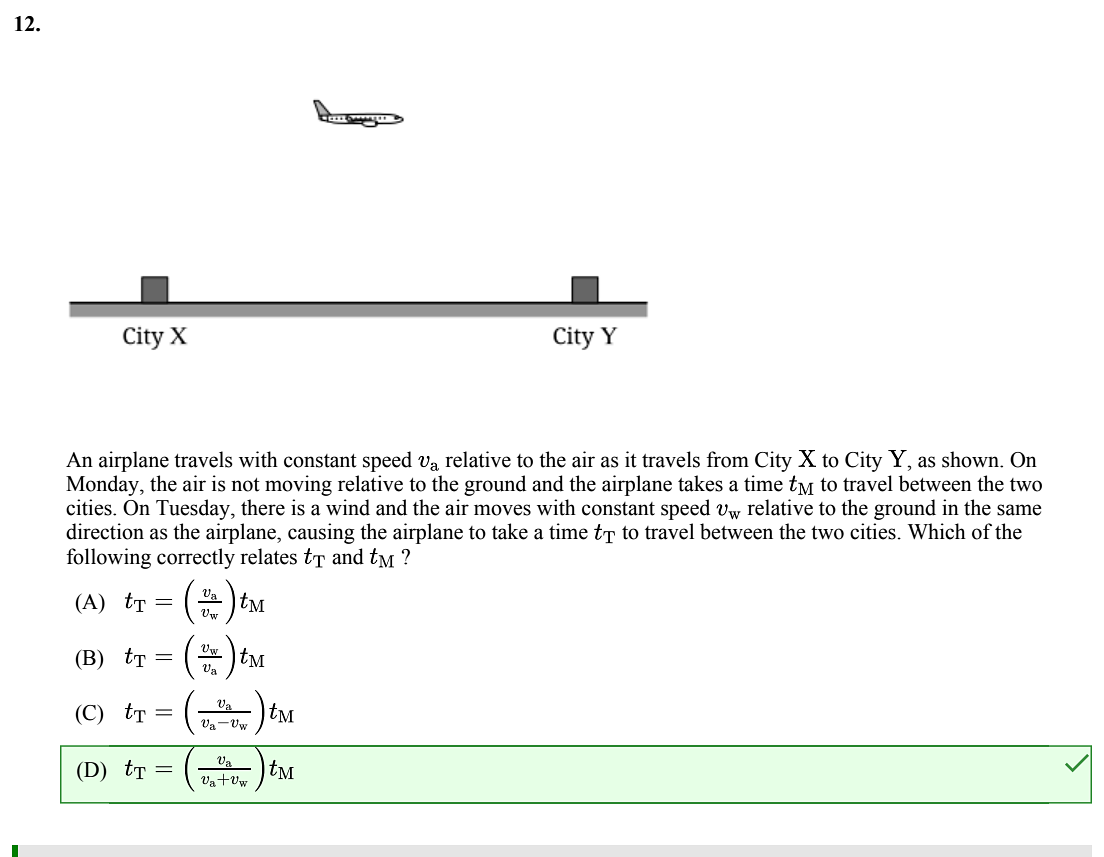
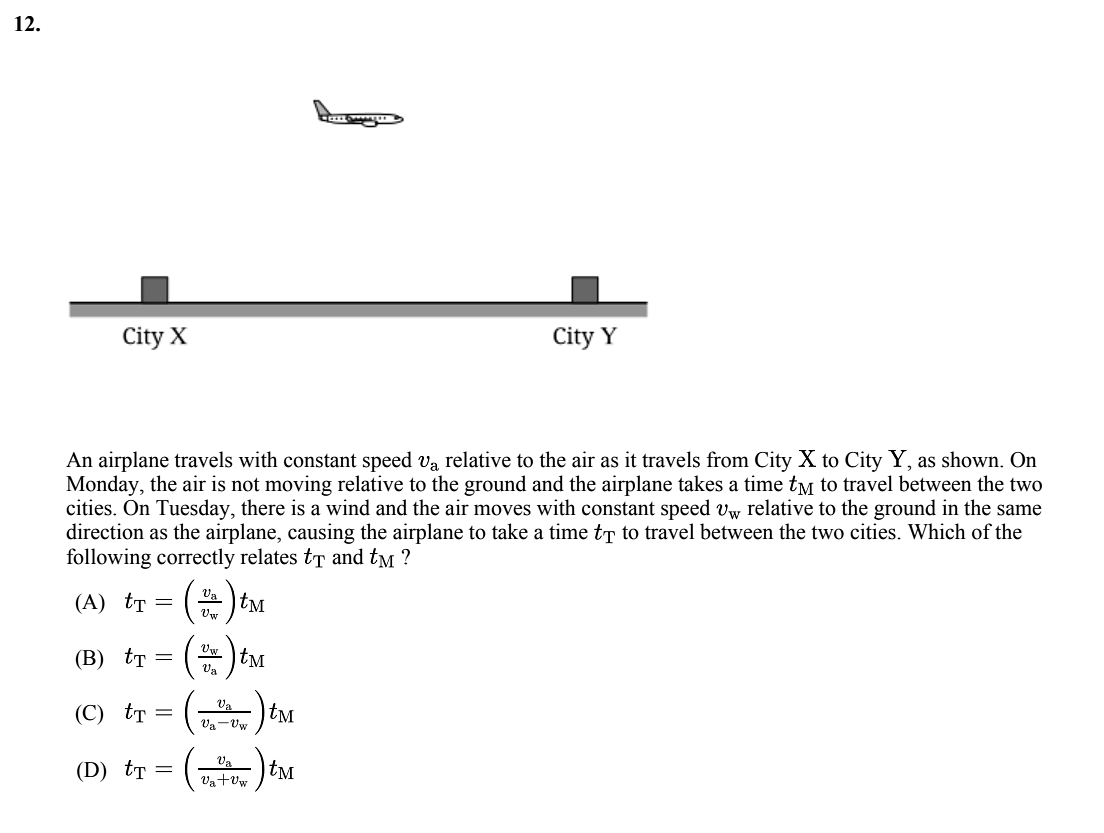
Remove answer markings from AP Physics 1 unit 1 progress check

Changed region(s): [[0.0, 0.5306, 1.0, 1.0], [0.0616, 0.3121, 0.5851, 0.437], [0.2772, 0.1248, 0.3696, 0.1561]]

diff --git a/VectorSelect by Mr. F/data/exams_bundle.js b/VectorSelect by Mr. F/data/exams_bundle.js
@@ -1764,7 +1764,7 @@ window.EXAM_DATA = {
               "questions": [
                 {
                   "number": 1,
-                  "card_image": "assets/cards/app1_unit1_unit_1_progress_check_q1.png",
+                  "card_image": "assets/cards/app1_unit1_unit_1_progress_check_q1.png?v=20261101_v4",
                   "choices": [
                     {
                       "letter": "A",
@@ -1787,7 +1787,7 @@ window.EXAM_DATA = {
                 },
                 {
                   "number": 2,
-                  "card_image": "assets/cards/app1_unit1_unit_1_progress_check_q2.png",
+                  "card_image": "assets/cards/app1_unit1_unit_1_progress_check_q2.png?v=20261101_v4",
                   "choices": [
                     {
                       "letter": "A",
@@ -1810,7 +1810,7 @@ window.EXAM_DATA = {
                 },
                 {
                   "number": 3,
-                  "card_image": "assets/cards/app1_unit1_unit_1_progress_check_q3.png",
+                  "card_image": "assets/cards/app1_unit1_unit_1_progress_check_q3.png?v=20261101_v4",
                   "choices": [
                     {
                       "letter": "A",
@@ -1833,7 +1833,7 @@ window.EXAM_DATA = {
                 },
                 {
                   "number": 4,
-                  "card_image": "assets/cards/app1_unit1_unit_1_progress_check_q4.png",
+                  "card_image": "assets/cards/app1_unit1_unit_1_progress_check_q4.png?v=20261101_v4",
                   "choices": [
                     {
                       "letter": "A",
@@ -1856,7 +1856,7 @@ window.EXAM_DATA = {
                 },
                 {
                   "number": 5,
-                  "card_image": "assets/cards/app1_unit1_unit_1_progress_check_q5.png",
+                  "card_image": "assets/cards/app1_unit1_unit_1_progress_check_q5.png?v=20261101_v4",
                   "choices": [
                     {
                       "letter": "A",
@@ -1879,7 +1879,7 @@ window.EXAM_DATA = {
                 },
                 {
                   "number": 6,
-                  "card_image": "assets/cards/app1_unit1_unit_1_progress_check_q6.png",
+                  "card_image": "assets/cards/app1_unit1_unit_1_progress_check_q6.png?v=20261101_v4",
                   "choices": [
                     {
                       "letter": "A",
@@ -1902,7 +1902,7 @@ window.EXAM_DATA = {
                 },
                 {
                   "number": 7,
-                  "card_image": "assets/cards/app1_unit1_unit_1_progress_check_q7.png",
+                  "card_image": "assets/cards/app1_unit1_unit_1_progress_check_q7.png?v=20261101_v4",
                   "choices": [
                     {
                       "letter": "A",
@@ -1925,7 +1925,7 @@ window.EXAM_DATA = {
                 },
                 {
                   "number": 8,
-                  "card_image": "assets/cards/app1_unit1_unit_1_progress_check_q8.png",
+                  "card_image": "assets/cards/app1_unit1_unit_1_progress_check_q8.png?v=20261101_v4",
                   "choices": [
                     {
                       "letter": "A",
@@ -1948,7 +1948,7 @@ window.EXAM_DATA = {
                 },
                 {
                   "number": 9,
-                  "card_image": "assets/cards/app1_unit1_unit_1_progress_check_q9.png",
+                  "card_image": "assets/cards/app1_unit1_unit_1_progress_check_q9.png?v=20261101_v4",
                   "choices": [
                     {
                       "letter": "A",
@@ -1971,7 +1971,7 @@ window.EXAM_DATA = {
                 },
                 {
                   "number": 10,
-                  "card_image": "assets/cards/app1_unit1_unit_1_progress_check_q10.png",
+                  "card_image": "assets/cards/app1_unit1_unit_1_progress_check_q10.png?v=20261101_v4",
                   "choices": [
                     {
                       "letter": "A",
@@ -1994,7 +1994,7 @@ window.EXAM_DATA = {
                 },
                 {
                   "number": 11,
-                  "card_image": "assets/cards/app1_unit1_unit_1_progress_check_q11.png",
+                  "card_image": "assets/cards/app1_unit1_unit_1_progress_check_q11.png?v=20261101_v4",
                   "choices": [
                     {
                       "letter": "A",
@@ -2017,7 +2017,7 @@ window.EXAM_DATA = {
                 },
                 {
                   "number": 12,
-                  "card_image": "assets/cards/app1_unit1_unit_1_progress_check_q12.png",
+                  "card_image": "assets/cards/app1_unit1_unit_1_progress_check_q12.png?v=20261101_v4",
                   "choices": [
                     {
                       "letter": "A",
@@ -2040,7 +2040,7 @@ window.EXAM_DATA = {
                 },
                 {
                   "number": 13,
-                  "card_image": "assets/cards/app1_unit1_unit_1_progress_check_q13.png",
+                  "card_image": "assets/cards/app1_unit1_unit_1_progress_check_q13.png?v=20261101_v4",
                   "choices": [
                     {
                       "letter": "A",
@@ -2063,7 +2063,7 @@ window.EXAM_DATA = {
                 },
                 {
                   "number": 14,
-                  "card_image": "assets/cards/app1_unit1_unit_1_progress_check_q14.png",
+                  "card_image": "assets/cards/app1_unit1_unit_1_progress_check_q14.png?v=20261101_v4",
                   "choices": [
                     {
                       "letter": "A",
@@ -2086,7 +2086,7 @@ window.EXAM_DATA = {
                 },
                 {
                   "number": 15,
-                  "card_image": "assets/cards/app1_unit1_unit_1_progress_check_q15.png",
+                  "card_image": "assets/cards/app1_unit1_unit_1_progress_check_q15.png?v=20261101_v4",
                   "choices": [
                     {
                       "letter": "A",
@@ -2109,7 +2109,7 @@ window.EXAM_DATA = {
                 },
                 {
                   "number": 16,
-                  "card_image": "assets/cards/app1_unit1_unit_1_progress_check_q16.png",
+                  "card_image": "assets/cards/app1_unit1_unit_1_progress_check_q16.png?v=20261101_v4",
                   "choices": [
                     {
                       "letter": "A",
@@ -2132,7 +2132,7 @@ window.EXAM_DATA = {
                 },
                 {
                   "number": 17,
-                  "card_image": "assets/cards/app1_unit1_unit_1_progress_check_q17.png",
+                  "card_image": "assets/cards/app1_unit1_unit_1_progress_check_q17.png?v=20261101_v4",
                   "choices": [
                     {
                       "letter": "A",
@@ -2155,7 +2155,7 @@ window.EXAM_DATA = {
                 },
                 {
                   "number": 18,
-                  "card_image": "assets/cards/app1_unit1_unit_1_progress_check_q18.png",
+                  "card_image": "assets/cards/app1_unit1_unit_1_progress_check_q18.png?v=20261101_v4",
                   "choices": [
                     {
                       "letter": "A",

diff --git a/VectorSelect by Mr. F/index.html b/VectorSelect by Mr. F/index.html
@@ -37,7 +37,7 @@
   <script src="supabase_config.js"></script>
   <!-- Offline Air-Gapped Fallback Keys (Ignored on GitHub Pages) -->
   <script src="data/answer_keys.js" onerror="/* Local air-gapped fallback only */"></script>
-  <script src="data/exams_bundle.js?v=20261101_v3"></script>
+  <script src="data/exams_bundle.js?v=20261101_v4"></script>
   <script src="data/concepts.js"></script>
   <script src="data/recovery_engine.js"></script>
   <script src="data/recovery_sims.js"></script>

diff --git a/VectorSelect by Mr. F/teacher.html b/VectorSelect by Mr. F/teacher.html
@@ -37,7 +37,7 @@
   <script src="supabase_config.js"></script>
   <!-- Offline Air-Gapped Fallback Keys (Ignored on GitHub Pages) -->
   <script src="data/answer_keys.js" onerror="/* Local air-gapped fallback only */"></script>
-  <script src="data/exams_bundle.js?v=20261101_v3"></script>
+  <script src="data/exams_bundle.js?v=20261101_v4"></script>
   <script src="data/concepts.js"></script>
   <script src="data/recovery_engine.js"></script>
   <script src="data/game_arena.js"></script>

diff --git a/VectorSelect by Mr. F/scripts/build_exam_database.py b/VectorSelect by Mr. F/scripts/build_exam_database.py
@@ -1,4 +1,5 @@
 import os
+import ctypes
 import re
 import json
 import asyncio
@@ -558,10 +559,33 @@ def crop_sg_questions(doc, quiz_slug):
     scale = 2.0
     header_margin = 65.0
     footer_margin = 25.0
+
+    source_pages = list(doc)
+    if quiz_slug == 'app1_unit1_unit_1_progress_check':
+        # Remove the scoring guide's background, outlines and checkmarks as
+        # PDF objects before rendering, preserving the original choice text.
+        removed = 0
+        for page in source_pages:
+            for obj in list(page.get_objects()):
+                if obj.type != pdfium.raw.FPDF_PAGEOBJ_PATH:
+                    continue
+                colors = []
+                for getter in (pdfium.raw.FPDFPageObj_GetFillColor,
+                               pdfium.raw.FPDFPageObj_GetStrokeColor):
+                    channels = [ctypes.c_uint() for _ in range(4)]
+                    if getter(obj.raw, *(ctypes.byref(c) for c in channels)):
+                        colors.append(tuple(c.value for c in channels[:3]))
+                if any(c in ((230, 255, 230), (227, 255, 222),
+                             (58, 145, 63), (0, 128, 0)) for c in colors):
+                    page.remove_obj(obj)
+                    removed += 1
+            page.gen_content()
+        if removed < 18:
+            raise ValueError('Expected scoring-guide answer highlights were not found; refusing unsafe cards')
     
     # 1. Parse each page for questions and answers
     pages_data = []
-    for p_idx, page in enumerate(doc):
+    for p_idx, page in enumerate(source_pages):
         tp = page.get_textpage()
         text = tp.get_text_range()
         w, h = page.get_size()
@@ -621,7 +645,7 @@ def crop_sg_questions(doc, quiz_slug):
         valid_ans = [a for a in start_pd['ans'] if a['top_y'] > start_q_obj['top_y']]
         if valid_ans:
             # Answer is on the same page!
-            bottom_y = valid_ans[0]['top_y'] - 8.0
+            bottom_y = valid_ans[0]['top_y'] - (20.0 if quiz_slug == 'app1_unit1_unit_1_progress_check' else 8.0)
             segments.append({'p_idx': p_idx, 'top_y': top_y, 'bottom_y': bottom_y})
         else:
             # Question continues onto subsequent pages until its Answer is reached
@@ -631,7 +655,7 @@ def crop_sg_questions(doc, quiz_slug):
                 next_pd = pages_data[curr_p]
                 if next_pd['ans']:
                     # Reached answer on this page
-                    cont_bottom = next_pd['ans'][0]['top_y'] - 8.0
+                    cont_bottom = next_pd['ans'][0]['top_y'] - (20.0 if quiz_slug == 'app1_unit1_unit_1_progress_check' else 8.0)
                     segments.append({'p_idx': curr_p, 'top_y': header_margin, 'bottom_y': cont_bottom})
                     break
                 elif next_pd['qs']:
@@ -646,7 +670,7 @@ def crop_sg_questions(doc, quiz_slug):
                     
         imgs = []
         for s in segments:
-            page = doc[s['p_idx']]
+            page = source_pages[s['p_idx']]
             w, h = page.get_size()
             pil = page.render(scale=scale).to_pil()
             top_px = int(max(0, s['top_y'] * scale))
@@ -672,7 +696,8 @@ def crop_sg_questions(doc, quiz_slug):
             img_fname = f"{quiz_slug}_q{qnum}.png"
             full_out = os.path.join(CARDS_DIR, img_fname)
             card.save(full_out, "PNG")
-            card_paths[qnum] = f"assets/cards/{img_fname}"
+            version = '?v=20261101_v4' if quiz_slug == 'app1_unit1_unit_1_progress_check' else ''
+            card_paths[qnum] = f"assets/cards/{img_fname}{version}"
             
     return card_paths
 
